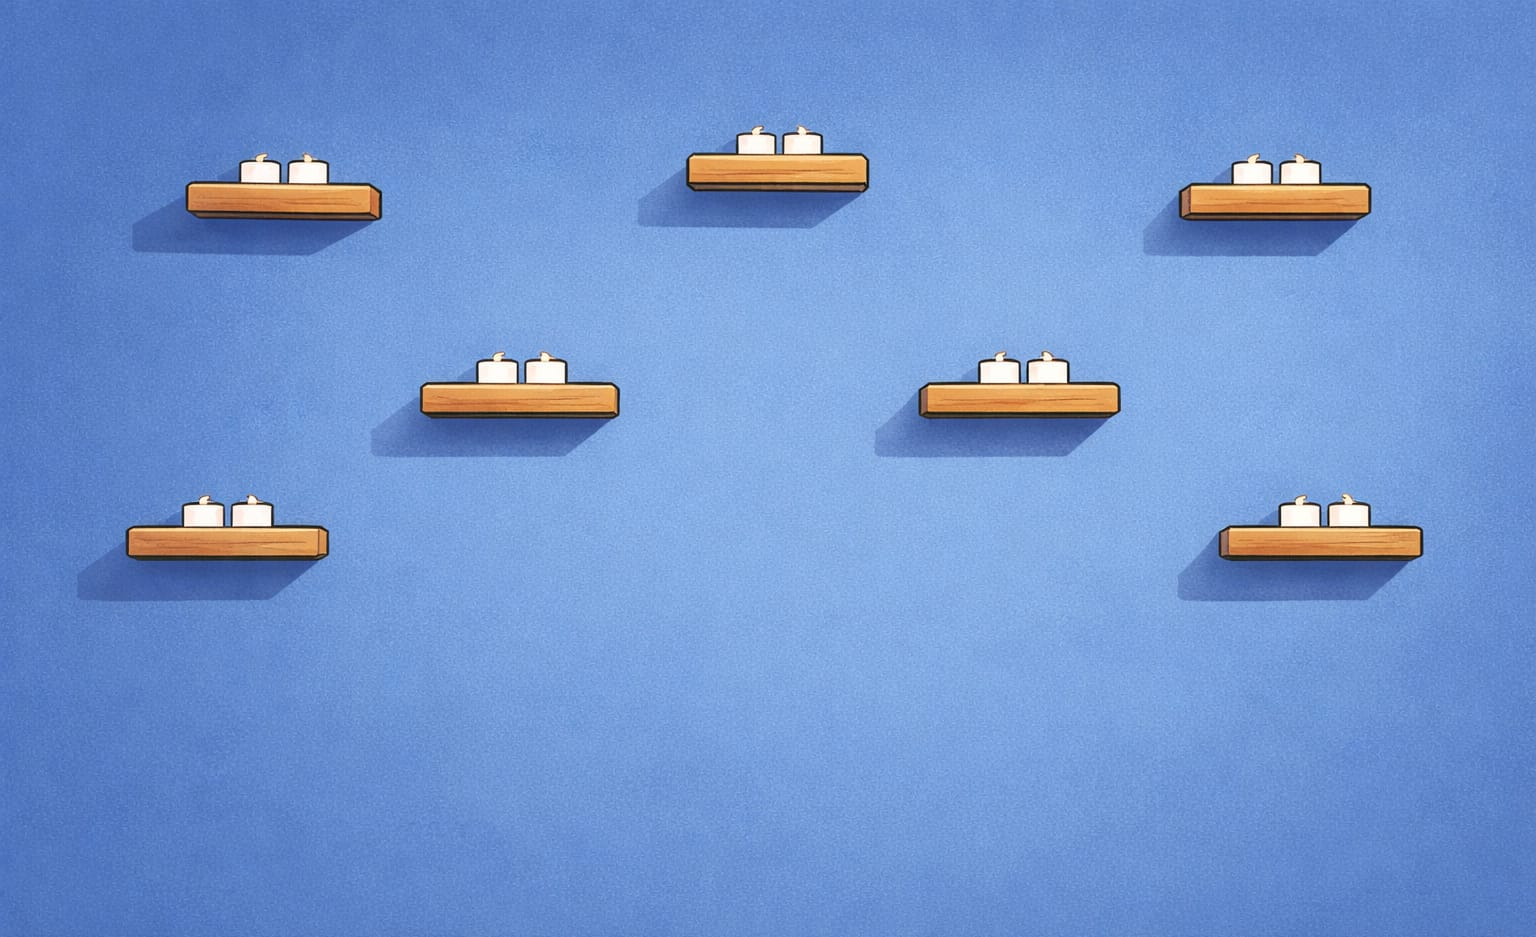
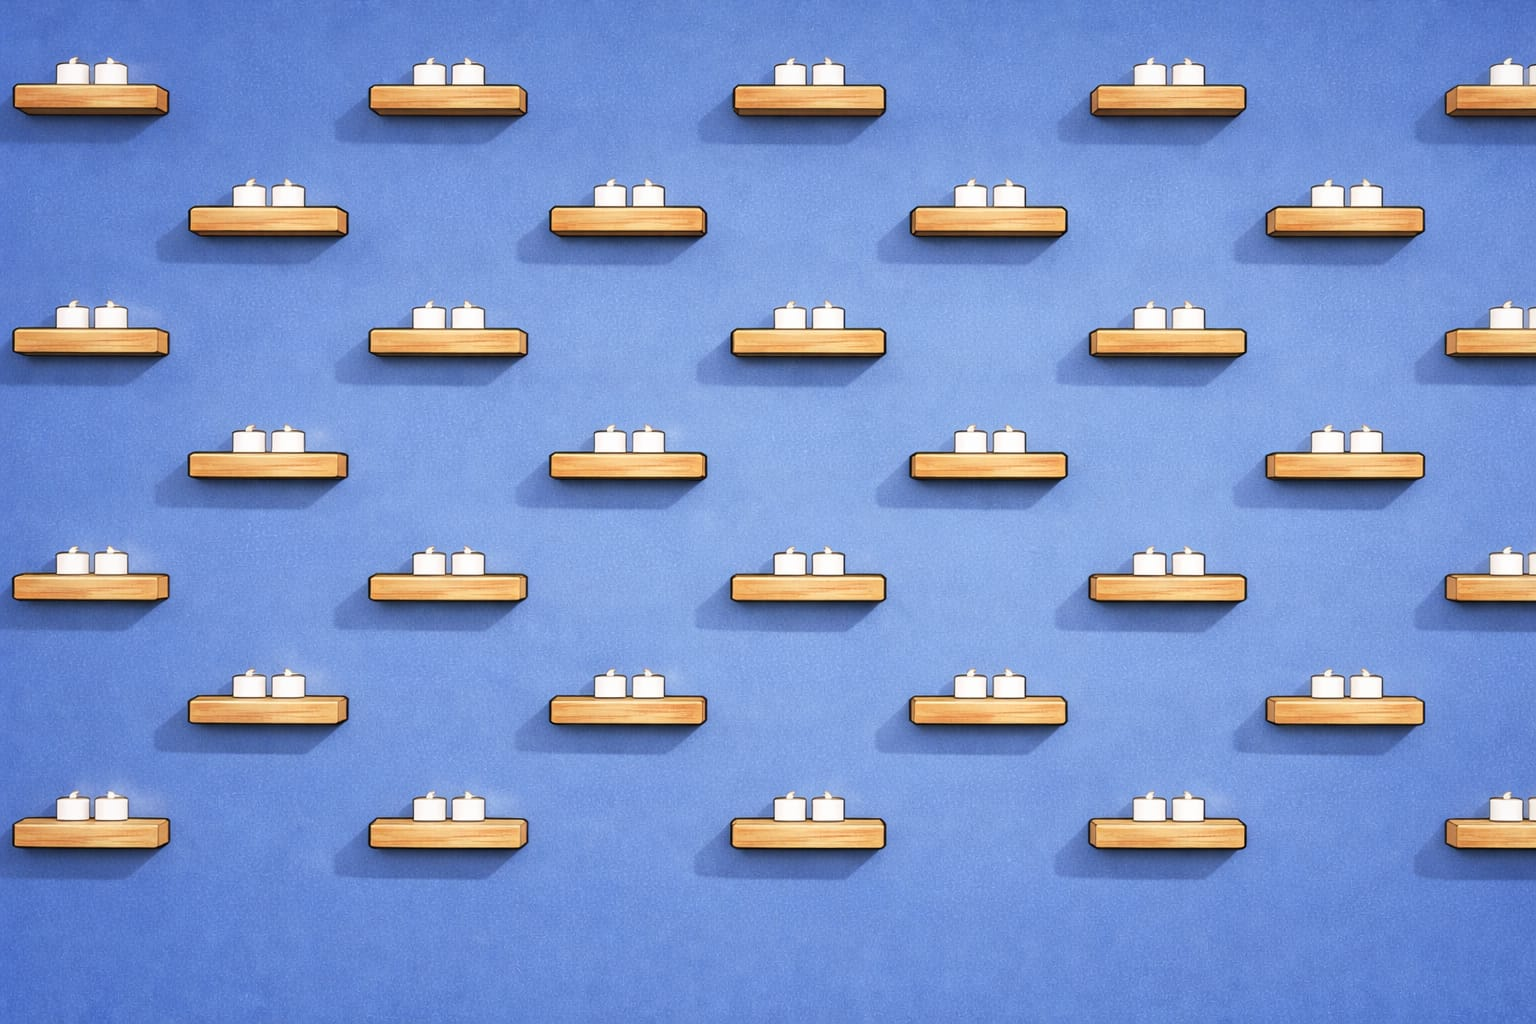
cambio de fondo services

diff --git a/src/lib/supabase.js b/src/lib/supabase.js
@@ -1,0 +1,6 @@
+import { createClient } from '@supabase/supabase-js'
+
+export const supabase = createClient(
+  "https://xyxinjuzhutjvvfjmatz.supabase.co",
+  "eyJhbGciOiJIUzI1NiIsInR5cCI6IkpXVCJ9.eyJpc3MiOiJzdXBhYmFzZSIsInJlZiI6Inh5eGluanV6aHV0anZ2ZmptYXR6Iiwicm9sZSI6ImFub24iLCJpYXQiOjE3NzU2Mjc2MjcsImV4cCI6MjA5MTIwMzYyN30.1WZhmxwCZvi4bOeS-2U_7yrFdYO2cL7rn8OkxqvYlWw"
+)

diff --git a/src/styles.css b/src/styles.css
@@ -155,8 +155,8 @@ h1, h2, h3 {
 ========================= */
 .hero {
   position: relative;
-  height: 75vh;
-  min-height: 500px;
+  height: 100vh;
+  min-height: 680px;
   overflow: hidden;
 }
 
@@ -187,7 +187,7 @@ h1, h2, h3 {
   color: white;
   padding: 40px;
   background: rgba(0, 0, 0, 0.35);
-  padding: 40px 15px;
+
 }
 
 /* 🖼 LOGO (queda en color) */

diff --git a/src/Components/BookingForm.jsx b/src/Components/BookingForm.jsx
@@ -1,4 +1,5 @@
 import { useState } from "react";
+import { supabase } from "../lib/supabase";
 
 const servicios = [
   "Depilación láser",
